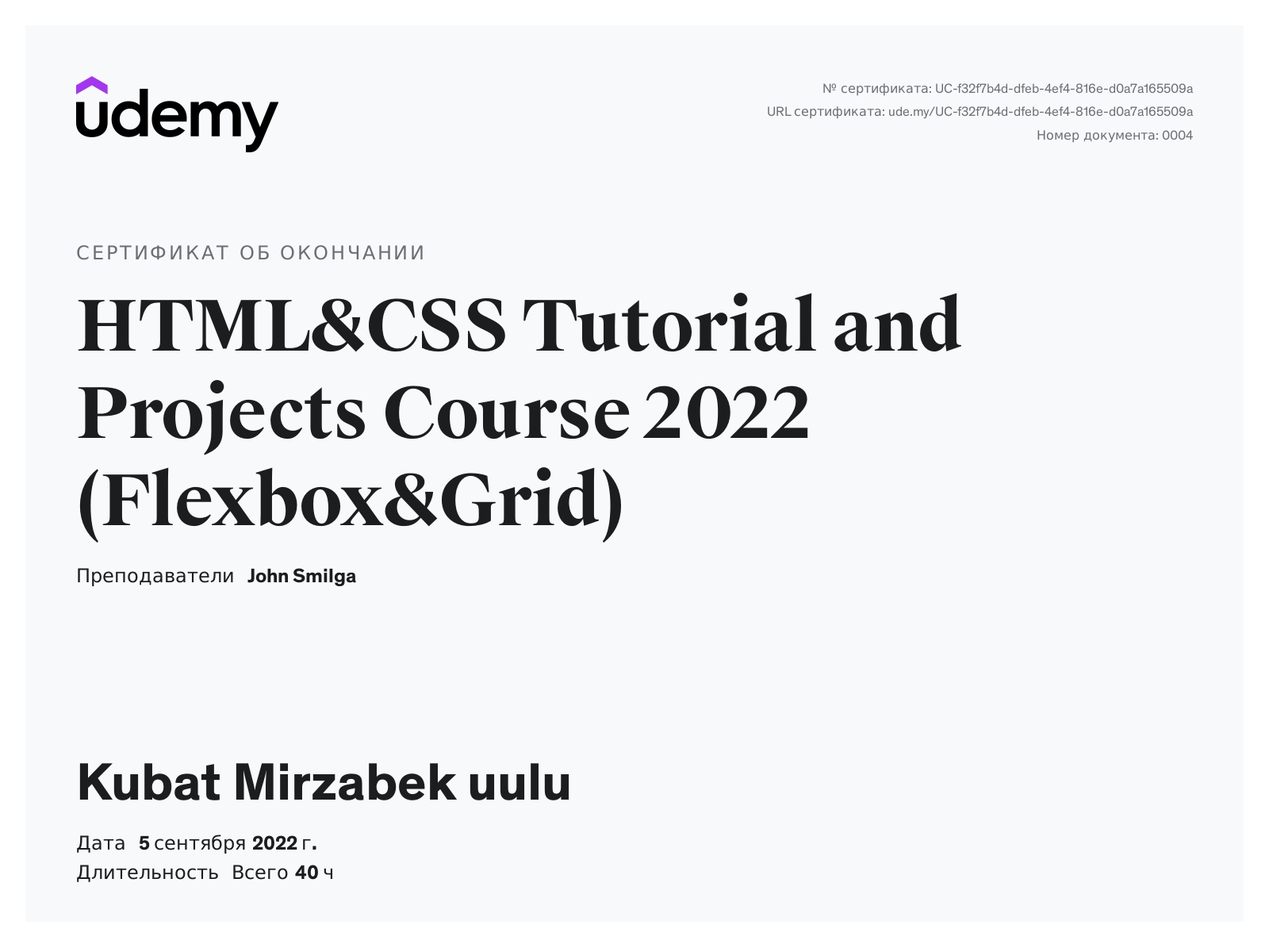
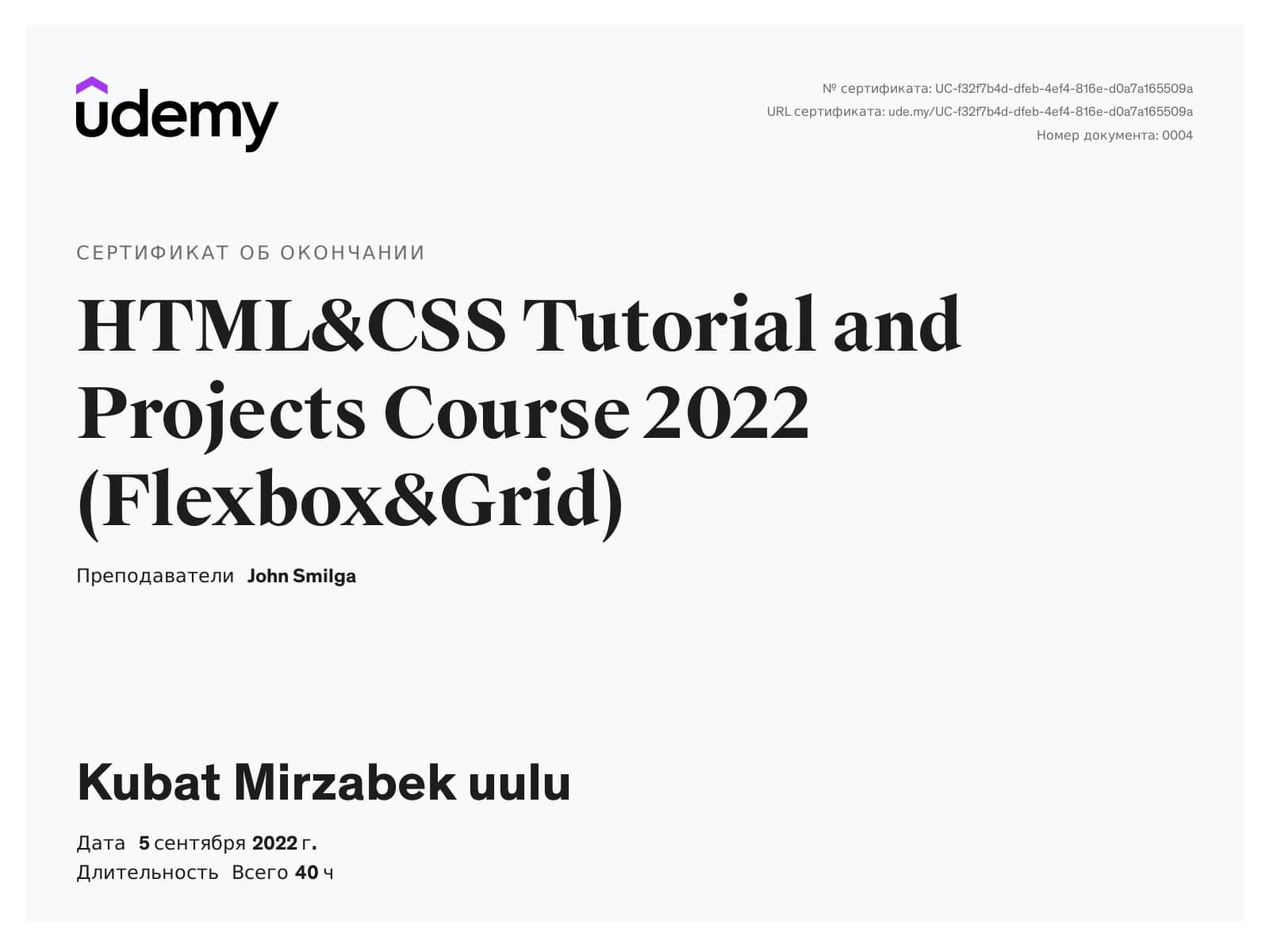
upd: lang.ts, compress imgs

Changed region(s): [[0.25, 0.5908, 0.2812, 0.6218]]

diff --git a/src/data/lang.ts b/src/data/lang.ts
@@ -1,135 +1,161 @@
 const privateLang = {
   en: {
-    "contacts": "contacts",
-    "about": "about",
-    "skills": "skills",
-    "languages": "languages",
-    "education": "education",
-    "courses": "courses",
-    "projects": "projects",
+    contacts: 'contacts',
+    about: 'about',
+    skills: 'skills',
+    languages: 'languages',
+    education: 'education',
+    courses: 'courses',
+    projects: 'projects',
 
-    "Kubatbek Mirzabek": "Kubatbek Mirzabek",
-    "frontend developer": "frontend developer",
-    "Kyrgyzstan, Bishkek": "Kyrgyzstan, Bishkek",
+    'Kubatbek Mirzabek': 'Kubatbek Mirzabek',
+    'frontend developer': 'frontend developer',
+    'Kyrgyzstan, Bishkek': 'Kyrgyzstan, Bishkek',
 
-    "about1": "I am a <span>frontend developer</span> with a strong background in project development acquired through both learning experiences and over one year of commercial development experience.",
-    "about2": "In the course of training, I have completed more than a dozen different works as part of <span>The Rolling Scopes School</span> training course.",
-    "about3": "I have experience working with various <span>tools</span> and <span>libraries</span>, experience in team development, according to the <span>git-flow</span> methodology.",
-    "about4": "My work, including my commercial experience, is highly appreciated not only by fellow students and school mentors but also by team leads.",
+    about1:
+      'I am a <span>frontend developer</span> with a strong background in project development acquired through both learning experiences and over one year of commercial development experience.',
+    about2:
+      'In the course of training, I have completed more than a dozen different works as part of <span>The Rolling Scopes School</span> training course.',
+    about3:
+      'I have experience working with various <span>tools</span> and <span>libraries</span>, experience in team development, according to the <span>git-flow</span> methodology.',
+    about4:
+      'My work, including my commercial experience, is highly appreciated not only by fellow students and school mentors but also by team leads.',
 
-    "Kyrgyz": "Kyrgyz",
-    "Russian": "Russian",
-    "English": "English",
-    "near-native": "near-native",
-    "native": "native",
-    "upper-intermediate (B2)": "upper-intermediate (B2)",
+    Kyrgyz: 'Kyrgyz',
+    Russian: 'Russian',
+    English: 'English',
+    'near-native': 'near-native',
+    native: 'native',
+    'upper-intermediate (B2)': 'upper-intermediate (B2)',
 
-    "The Rolling Scopes School": "The Rolling Scopes School",
-    "Kyrgyz Economic University": "Kyrgyz Economic University",
-    "JS/Front-end": "JS/Front-end",
-    "Information Technology": "Information Technology",
+    'The Rolling Scopes School': 'The Rolling Scopes School',
+    'Kyrgyz Economic University': 'Kyrgyz Economic University',
+    'JS/Front-end': 'JS/Front-end',
+    'Information Technology': 'Information Technology',
 
-    "completed": "completed",
-    "certificate is pending...": "certificate is pending...",
+    completed: 'completed',
+    'certificate is pending...': 'certificate is pending...',
 
-    "PetStory Online": "PetStory Online",
-    "Tags": "Fifteen Puzzle Game",
-    "DashBoard": "DashBoard",
-    "Songbird": "Songbird",
-    "Online Store": "Online Store",
-    "Gaming Zone": "Gaming Zone",
+    'PetStory Online': 'PetStory Online',
+    Tags: 'Fifteen Puzzle Game',
+    DashBoard: 'DashBoard',
+    Songbird: 'Songbird',
+    'Online Store': 'Online Store',
+    'Gaming Zone': 'Gaming Zone',
 
-    "PetStory Online Desc": "<span>Adaptive site layout</span> (up to 320px) for an online zoo, there are About and Donate pages. Implemented: carousel, scrolling comments, burger menu and modal window with comments in the mobile version, used <span>vanilla JavaScript</span> (without libraries), HTML, CSS.",
+    'PetStory Online Desc':
+      '<span>Adaptive site layout</span> (up to 320px) for an online zoo, there are About and Donate pages. Implemented: carousel, scrolling comments, burger menu and modal window with comments in the mobile version, used <span>vanilla JavaScript</span> (without libraries), HTML, CSS.',
 
-    "Tags Desc": "Implementation of <span>\"Fifteen Puzzle Game\"</span>, additionally implemented saving the game to localStorage and loading previously saved game, 6 game levels. The whole game is written in <span>vanilla JavaScript</span> (without libraries) according to the SPA, without using HTML tags the body tag.",
+    'Tags Desc':
+      'Implementation of <span>"Fifteen Puzzle Game"</span>, additionally implemented saving the game to localStorage and loading previously saved game, 6 game levels. The whole game is written in <span>vanilla JavaScript</span> (without libraries) according to the SPA, without using HTML tags the body tag.',
 
-    "Dashboard Desc": "This project is a React Admin Dashboard that I built using various libraries including Material UI, Nivo Charts, Formik, Yup, FullCalendar, and Data Grid. It features Light and Dark Modes, 4 different types of charts, 3 pages with distinct data tables, a FAQ page, a form page, and integration with a calendar.",
+    'Dashboard Desc':
+      'This project is a React Admin Dashboard that I built using various libraries including Material UI, Nivo Charts, Formik, Yup, FullCalendar, and Data Grid. It features Light and Dark Modes, 4 different types of charts, 3 pages with distinct data tables, a FAQ page, a form page, and integration with a calendar.',
 
-    "Songbird Desc": "A simple <span>quiz game </span> for guessing the singing of birds, additionally implemented a gallery of all the birds available in the game. The whole game is written in <span>vanilla JavaScript</span> (without libraries) according to the SPA, without using HTML tags the body tag.",
+    'Songbird Desc':
+      'A simple <span>quiz game </span> for guessing the singing of birds, additionally implemented a gallery of all the birds available in the game. The whole game is written in <span>vanilla JavaScript</span> (without libraries) according to the SPA, without using HTML tags the body tag.',
 
-    "Online Store Desc": "<span>Team development</span> with other one developer. Test online store. There are implemented: filters, search, adding/removing items into/from the basket, fake-purchase, etc. The application is written in <span>vanilla TypeScript</span> (without libraries, Any type and JavaScript) according to the <span>SPA.</span>",
+    'Online Store Desc':
+      '<span>Team development</span> with other one developer. Test online store. There are implemented: filters, search, adding/removing items into/from the basket, fake-purchase, etc. The application is written in <span>vanilla TypeScript</span> (without libraries, Any type and JavaScript) according to the <span>SPA.</span>',
 
-    "RSKanban Desc": "<span>Collaborative development</span> in a team of 3 people. A small application similar to a Kanban board was developed. The entire front-end was written using the <span>React</span> library and <span>TypeScript</span>. <span>Firebase</span> was used for the back-end. Although the project was a team effort, most of the work was done by me due to the lower skill level of my teammates.",
+    'RSKanban Desc':
+      '<span>Collaborative development</span> in a team of 3 people. A small application similar to a Kanban board was developed. The entire front-end was written using the <span>React</span> library and <span>TypeScript</span>. <span>Firebase</span> was used for the back-end. Although the project was a team effort, most of the work was done by me due to the lower skill level of my teammates.',
 
-    "PetStory Online Short Desc": "<span>Adaptive site layout</span> up to 320px. JavaScript, HTML, CSS.",
-    "Tags Short Desc": "<span>Fifteen Puzzle Game</span> with 6 game levels and saving. JavaScript (SPA), CSS.",
-    "Kanban Short Desc": "<span>Kanban Application </span>, co-development. React, TypeScript, Firebase.",
+    'PetStory Online Short Desc':
+      '<span>Adaptive site layout</span> up to 320px. JavaScript, HTML, CSS.',
+    'Tags Short Desc':
+      '<span>Fifteen Puzzle Game</span> with 6 game levels and saving. JavaScript (SPA), CSS.',
+    'Kanban Short Desc':
+      '<span>Kanban Application </span>, co-development. React, TypeScript, Firebase.',
   } as any,
   ru: {
-    "contacts": "контакты",
-    "about": "обо мне",
-    "skills": "навыки",
-    "languages": "языки",
-    "education": "образование",
-    "courses": "курсы",
-    "projects": "проекты",
+    contacts: 'контакты',
+    about: 'обо мне',
+    skills: 'навыки',
+    languages: 'языки',
+    education: 'образование',
+    courses: 'курсы',
+    projects: 'проекты',
 
-    "Kubatbek Mirzabek": "Кубатбек Мирзабек",
-    "frontend developer": "frontend разработчик",
-    "Kyrgyzstan, Bishkek": "Кыргызстан, Бишкек",
+    'Kubatbek Mirzabek': 'Кубатбек Мирзабек',
+    'frontend developer': 'frontend разработчик',
+    'Kyrgyzstan, Bishkek': 'Кыргызстан, Бишкек',
 
-    "about1": "Я <span>frontend разработчик</span> с крепким опытом разработки проектов, накопленным в процессе обучения и более чем годом опыта коммерческой разработки.",
-    "about2": "В процессе обучения мною было выполнено более десятка различных работ, в рамках учебного курса <span>Rolling Scopes School</span>.",
-    "about3": "Имеется опыт работы с различными <span>инструментами</span> и <span>библиотеками</span>, опыт командной разработки, согласно методологии <span>git-flow</span>.",
-    "about4": "Моя работа, включая мой коммерческий опыт, высоко ценится не только среди сокурсников и наставников в школе, но и среди руководителей команды.",
+    about1:
+      'Я <span>frontend разработчик</span> со значительный опытом разработки проектов, накопленным в процессе обучения и более чем годом опыта коммерческой разработки.',
+    about2:
+      'В процессе обучения мною было выполнено более десятка различных работ, в рамках учебного курса <span>Rolling Scopes School</span>.',
+    about3:
+      'Имеется опыт работы с различными <span>инструментами</span> и <span>библиотеками</span>, опыт командной разработки, согласно методологии <span>git-flow</span>.',
+    about4:
+      'Мои работы, включая мой коммерческий опыт, высоко ценятся не только среди сокурсников и наставников в школе, но и среди руководителей команды в коммерческих проектах.',
 
-    "Kyrgyz": "Кыргызский",
-    "Russian": "Русский",
-    "English": "Английский",
-    "near-native": "второй родной",
-    "native": "родной",
-    "upper-intermediate (B2)": "выше среднего (B2)",
+    Kyrgyz: 'Кыргызский',
+    Russian: 'Русский',
+    English: 'Английский',
+    'near-native': 'второй родной',
+    native: 'родной',
+    'upper-intermediate (B2)': 'выше среднего (B2)',
 
-    "The Rolling Scopes School": "The Rolling Scopes School",
-    "Kyrgyz Economic University": "Кыргызский Экономический Университет",
-    "JS/Front-end": "JS/Front-end",
-    "Information Technology": "Информационные технологии",
+    'The Rolling Scopes School': 'The Rolling Scopes School',
+    'Kyrgyz Economic University': 'Кыргызский Экономический Университет',
+    'JS/Front-end': 'JS/Front-end',
+    'Information Technology': 'Информационные технологии',
 
-    "completed": "завершен",
-    "certificate is pending...": "ожидается выдача...",
+    completed: 'завершен',
+    'certificate is pending...': 'ожидается выдача...',
 
-    "PetStory Online": "PetStory Online",
-    "Tags": "Пятнашки",
-    "DashBoard": "DashBoard",
-    "Songbird": "Songbird",
-    "Online Store": "Online Store",
-    "Gaming Zone": "Gaming Zone",
+    'PetStory Online': 'PetStory Online',
+    Tags: 'Пятнашки',
+    DashBoard: 'DashBoard',
+    Songbird: 'Songbird',
+    'Online Store': 'Online Store',
+    'Gaming Zone': 'Gaming Zone',
 
-    "PetStory Online Desc": "<span>Адаптивная верстка</span> сайта (до 320px) для онлайн зоопарка, имеются страниц <span>About</span> и <span>Donate</span>. Реализованы: карусель, прокрутка комментариев, бургер меню и модальное окно с комментариями в мобильной версии, использован <span>чистый JavaScript</span> (без дополнительных библиотек), HTML, CSS.",
+    'PetStory Online Desc':
+      '<span>Адаптивная верстка</span> сайта (до 320px) для онлайн зоопарка, имеются страниц <span>About</span> и <span>Donate</span>. Реализованы: карусель, прокрутка комментариев, бургер меню и модальное окно с комментариями в мобильной версии, использован <span>чистый JavaScript</span> (без дополнительных библиотек), HTML, CSS.',
 
-    "Tags Desc": "Реализация игры <span>\"Пятнашки\"</span>, дополнительно реализовано сохранение игры в localStorage и загрузка ранее сохраненной игры, 6 уровней сложности. Вся игра написана на <span>чистом JavaScript</span> (без дополнительных библиотек) по принципу <span>SPA</span>, без использования HTML тэгов внутри тэга body.",
+    'Tags Desc':
+      'Реализация игры <span>"Пятнашки"</span>, дополнительно реализовано сохранение игры в localStorage и загрузка ранее сохраненной игры, 6 уровней сложности. Вся игра написана на <span>чистом JavaScript</span> (без дополнительных библиотек) по принципу <span>SPA</span>, без использования HTML тэгов внутри тэга body.',
 
-    "Dashboard Desc": "React Admin Dashboard, который я создал, используя различные библиотеки, в том числе Material UI, Nivo Charts, Formik, Yup, FullCalendar и Data Grid. Он включает светлую и темную темы, 4 различных типа графиков, 3 страницы с различными таблицами данных, страницу FAQ, страницу формы и интеграцию с календарем.",
+    'Dashboard Desc':
+      'React Admin Dashboard, который я создал, используя различные библиотеки, в том числе Material UI, Nivo Charts, Formik, Yup, FullCalendar и Data Grid. Он включает светлую и темную темы, 4 различных типа графиков, 3 страницы с различными таблицами данных, страницу FAQ, страницу формы и интеграцию с календарем.',
 
-    "Songbird Desc": "Простая <span>игра-викторина</span> на угадывание пения птиц, дополнительно реализованная галерея всех птиц, имеющихся в игре. Вся игра написана на <span>чистом JavaScript</span> (без дополнительных библиотек) по принципу <span>SPA</span>, без использования HTML тэгов внутри тэга body.",
+    'Songbird Desc':
+      'Простая <span>игра-викторина</span> на угадывание пения птиц, дополнительно реализованная галерея всех птиц, имеющихся в игре. Вся игра написана на <span>чистом JavaScript</span> (без дополнительных библиотек) по принципу <span>SPA</span>, без использования HTML тэгов внутри тэга body.',
 
-    "Online Store Desc": "<span>Совместная разработка</span> в команде из 2-х человек. Тестовый <span>интернет-магазин</span>, реализованы фильтры, поиск, добавление/удаление из корзины товаров, псевдо-покупка и др. Приложение написано на <span>чистом TypeScript</span> (без дополнительных библиотек, универсального типа Any и JavaScript) по принципу <span>SPA</span>, без использования HTML тэгов внутри тэга body.",
+    'Online Store Desc':
+      '<span>Совместная разработка</span> в команде из 2-х человек. Тестовый <span>интернет-магазин</span>, реализованы фильтры, поиск, добавление/удаление из корзины товаров, псевдо-покупка и др. Приложение написано на <span>чистом TypeScript</span> (без дополнительных библиотек, универсального типа Any и JavaScript) по принципу <span>SPA</span>, без использования HTML тэгов внутри тэга body.',
 
-    "RSKanban Desc": "<span>Совместная разработка</span> в команде из 3-х человек. Небольшое приложение наподобие kanban доски. Вся front-end часть написана с использование библиотеки <span>React</span> и <span>TypeScript</span>. Для <span>Back-end</span> был использован <span>Firebase</span>. Несмотря на то что проект был командным, почти вся работа была выполнена мной ввиду более низкого уровня сокомандников.",
-    "PetStory Online Short Desc": "<span>Адаптивная верстка</span> до 320px. JavaScript, HTML, CSS.",
-    "Tags Short Desc": "<span>Игра в пятнашки</span> с 6 уровнями и сохраниением. JavaScript (SPA), CSS.",
-    "Kanban Short Desc": "<span>Канбан приложение</span>, совместная разработка. React, TypeScript, Firebase.",
-  } as any
-}
+    'RSKanban Desc':
+      '<span>Совместная разработка</span> в команде из 3-х человек. Небольшое приложение наподобие kanban доски. Вся front-end часть написана с использование библиотеки <span>React</span> и <span>TypeScript</span>. Для <span>Back-end</span> был использован <span>Firebase</span>. Несмотря на то что проект был командным, почти вся работа была выполнена мной ввиду более низкого уровня сокомандников.',
+    'PetStory Online Short Desc':
+      '<span>Адаптивная верстка</span> до 320px. JavaScript, HTML, CSS.',
+    'Tags Short Desc':
+      '<span>Игра в пятнашки</span> с 6 уровнями и сохраниением. JavaScript (SPA), CSS.',
+    'Kanban Short Desc':
+      '<span>Канбан приложение</span>, совместная разработка. React, TypeScript, Firebase.',
+  } as any,
+};
 
 const lang = {} as any;
 
 lang.ru = new Proxy(privateLang.ru, {
   get(target, key) {
-    if(target && target[key]) {
-      return target[key]
+    if (target && target[key]) {
+      return target[key];
     }
-    return key
-  }
-})
+    return key;
+  },
+});
 
 lang.en = new Proxy(privateLang.en, {
   get(target, key) {
-    if(target && target[key]) {
-      return target[key]
+    if (target && target[key]) {
+      return target[key];
     }
-    return key
-  }
-})
+    return key;
+  },
+});
 
-export default lang
+export default lang;
